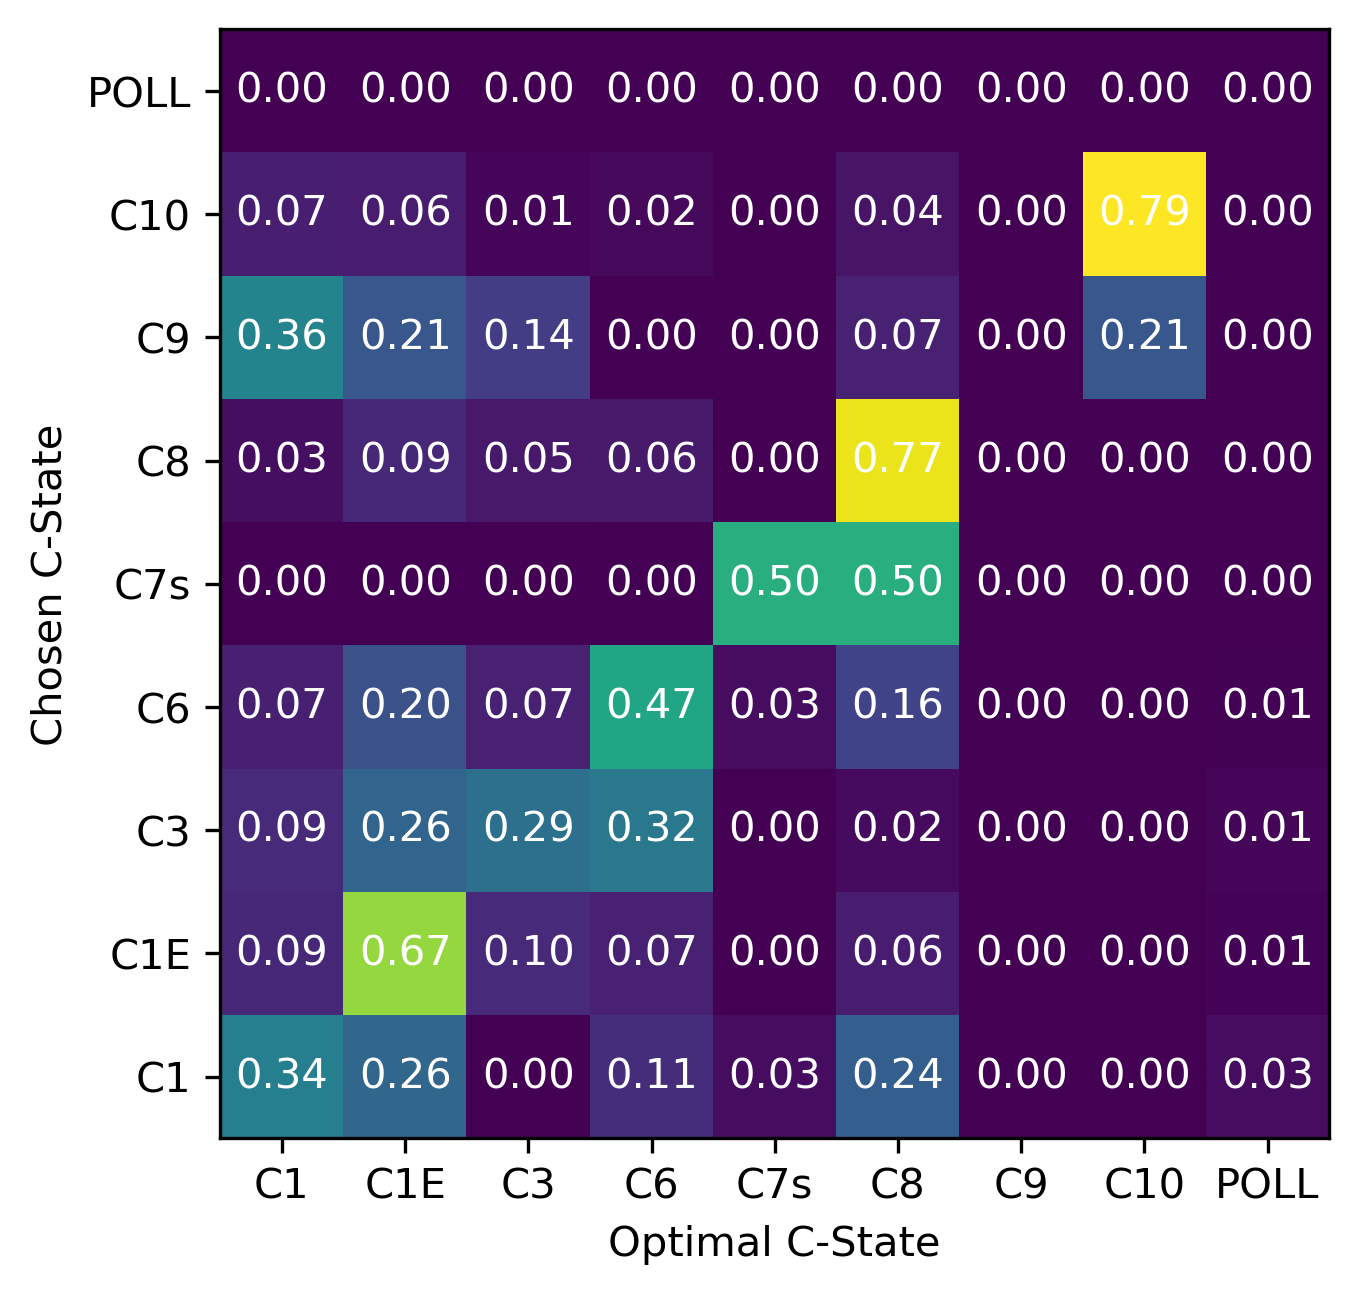
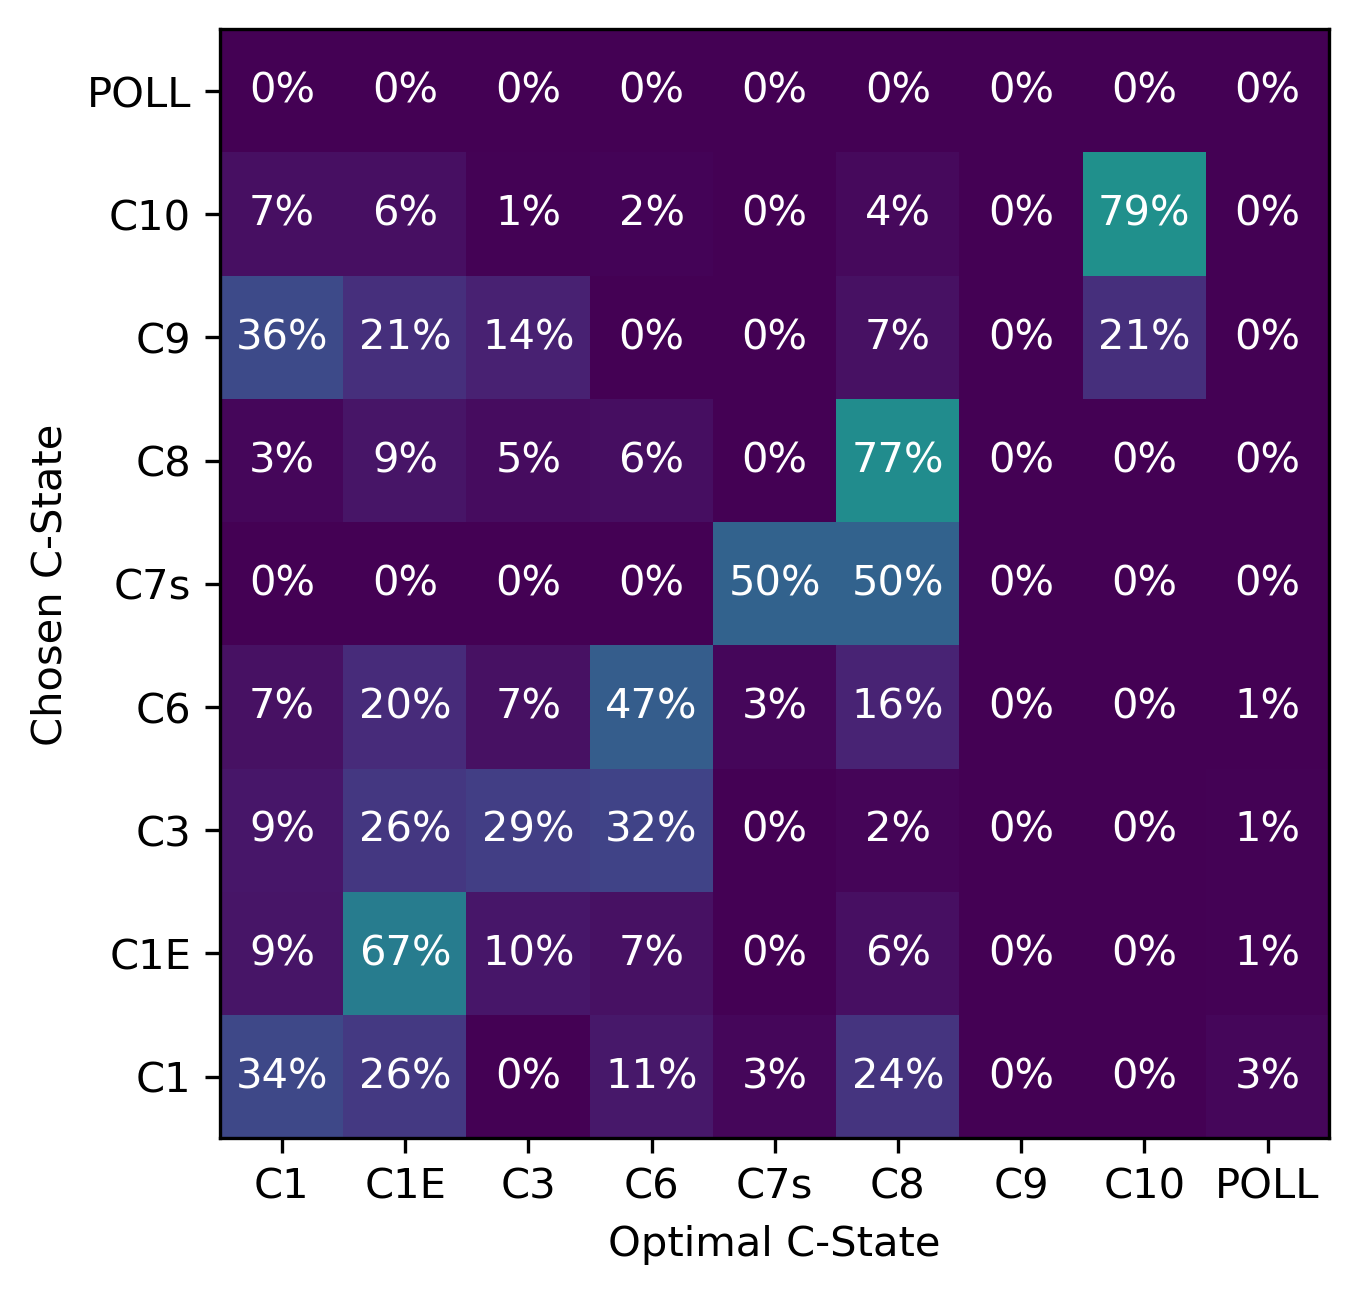
idle-governor: heatmap switch to % and blue cmap

diff --git a/images/idle-governor/idle-governor-cstate-heatmap.py b/images/idle-governor/idle-governor-cstate-heatmap.py
@@ -4,6 +4,7 @@ import os
 import pandas as pd
 import numpy as np
 import matplotlib.pyplot as plt
+from matplotlib.colors import ListedColormap
 import re
 
 FILE_BASE = os.path.splitext(__file__)[0]
@@ -42,11 +43,13 @@ i_col = sorted(set(df['C-State'].unique()).union(df['Optimal-State'].unique()), 
 
 # Correlate Optimal State and Chosen State
 tab = pd.crosstab(df['C-State'], df['Optimal-State']).reindex(index=i_col, columns=i_col, fill_value=0)
-norm_trans = np.array(tab.div(tab.sum(axis=1), axis=0).fillna(0))
+norm_trans = np.array(tab.div(tab.sum(axis=1), axis=0).fillna(0))*100
+
+cmap = ListedColormap(plt.cm.viridis(np.linspace(0, 0.5, 256)))
 
 # Create heatmap
 fig, ax = plt.subplots()
-im = ax.imshow(norm_trans)
+im = ax.imshow(norm_trans, cmap=cmap)
 
 # Set Ticks
 ax.set_xticks(np.arange(len(tab.axes[1])), labels=tab.axes[1])
@@ -55,7 +58,7 @@ ax.set_yticks(np.arange(len(tab.axes[0])), labels=tab.axes[0])
 # Create Annotations
 for i in range(len(tab.axes[0])):
     for j in range(len(tab.axes[1])):
-        text = ax.text(j, i, f'{norm_trans[i, j]:.2f}',
+        text = ax.text(j, i, f'{round(norm_trans[i, j])}%',
                        ha="center", va="center", color="w")
 
 
